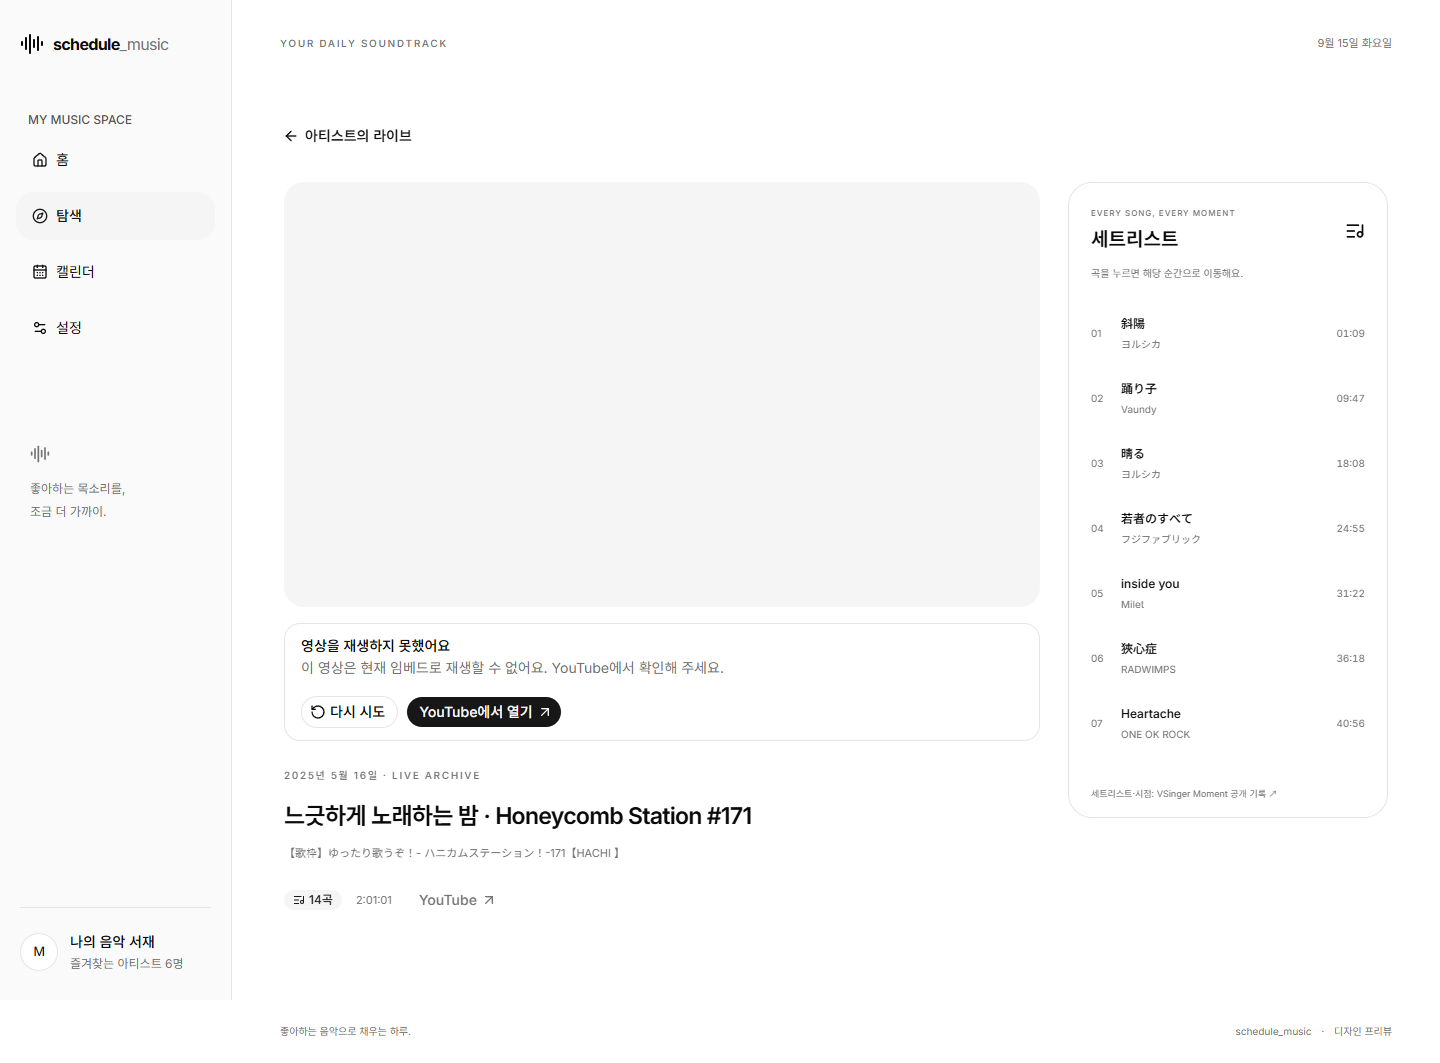
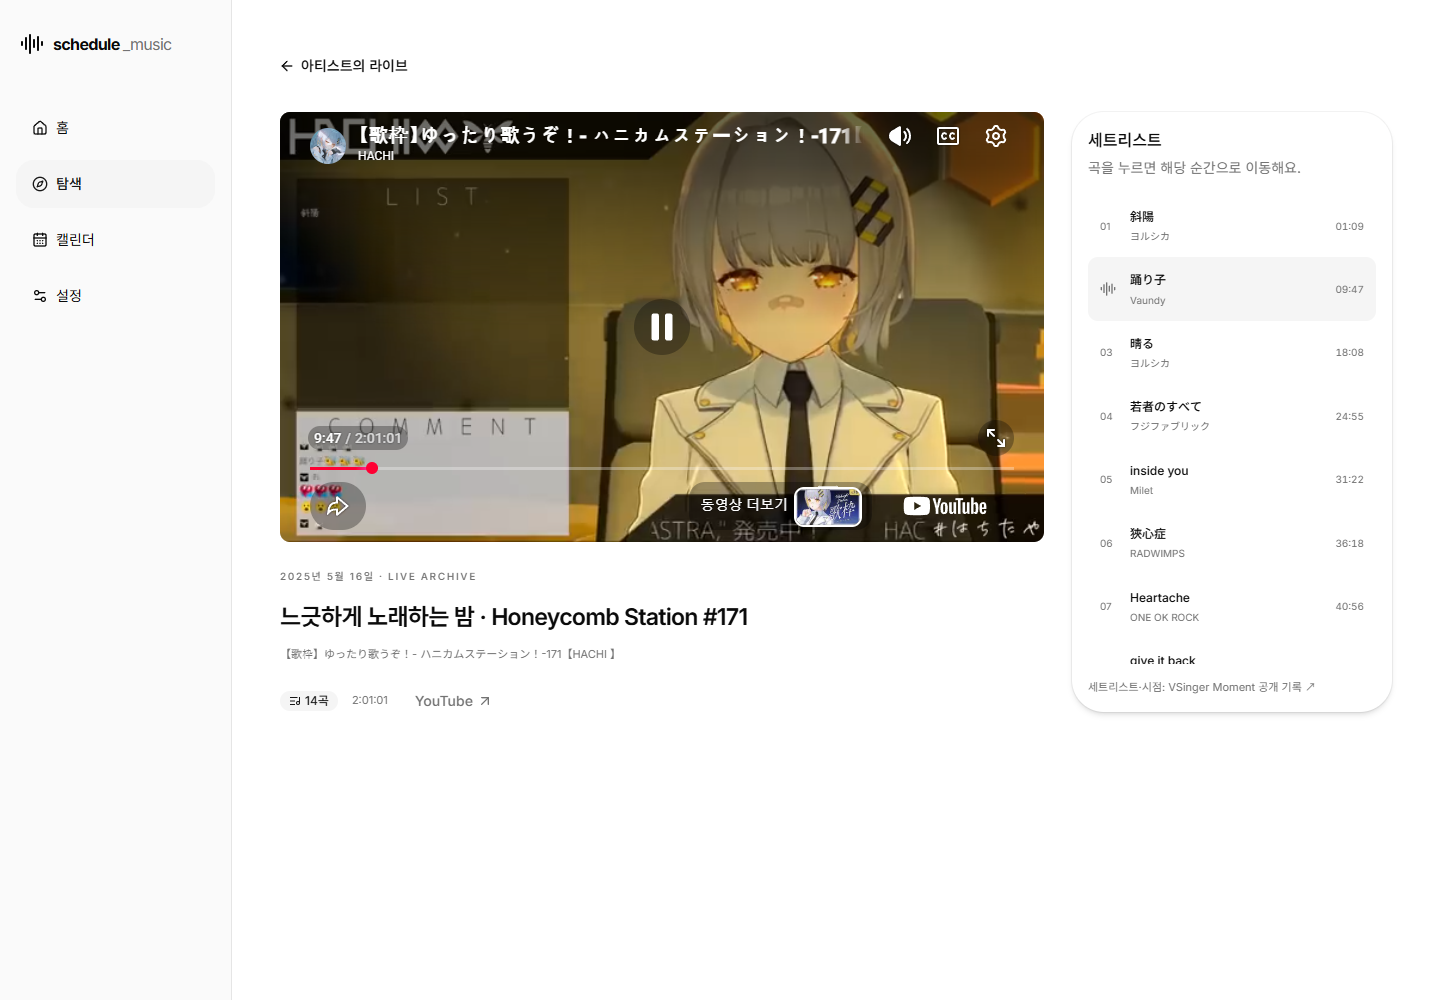
fix: 유튜브 재생문제, 썸네일 표시문제 수정

diff --git a/front-design-draft/tests/e2e/thumbnails.spec.ts b/front-design-draft/tests/e2e/thumbnails.spec.ts
@@ -1,0 +1,39 @@
+import { expect, test } from '@playwright/test'
+
+test('archive thumbnails keep 16:9 and recover from unavailable image sizes', async ({ page, context }) => {
+  // MSW forwards these requests from its worker, so intercept at context level.
+  await context.route('https://i.ytimg.com/vi/**', async (route) => {
+    const url = route.request().url()
+    if (
+      url.includes('jtzjXOVw7_Q') ||
+      (url.includes('rCLT8jX9Xhw') && url.includes('maxresdefault'))
+    ) {
+      await route.fulfill({ status: 404, body: '' })
+      return
+    }
+    const width = url.includes('maxresdefault') ? 120 : 320
+    await route.fulfill({
+      contentType: 'image/svg+xml',
+      body: `<svg xmlns="http://www.w3.org/2000/svg" width="${width}" height="180"><rect width="100%" height="100%" fill="gray"/></svg>`,
+    })
+  })
+  await page.goto('http://127.0.0.1:5174/artists/1?tab=lives')
+  await expect(page).toHaveURL('http://localhost:5174/artists/1?tab=lives')
+  await expect(page.locator('.live-card')).toHaveCount(3)
+  for (const id of [107, 108]) {
+    const card = page.locator(`.live-card[href="/lives/${id}"]`)
+    await card.scrollIntoViewIfNeeded()
+    await expect(card.locator('img')).toHaveAttribute('src', /mqdefault\.jpg$/)
+    await expect
+      .poll(() => card.locator('img').evaluate((image) => (image as HTMLImageElement).naturalWidth))
+      .toBe(320)
+    const box = await card.locator('.live-thumb').boundingBox()
+    expect(box!.width / box!.height).toBeCloseTo(16 / 9, 2)
+  }
+  const unavailable = page.locator('.live-card[href="/lives/101"]')
+  await unavailable.scrollIntoViewIfNeeded()
+  await expect(unavailable.locator('.live-thumb > img')).toHaveCount(0)
+  await expect(unavailable).toContainText('Honeycomb Station #171')
+  const box = await unavailable.locator('.live-thumb').boundingBox()
+  expect(box!.width / box!.height).toBeCloseTo(16 / 9, 2)
+})

diff --git a/front-design-draft/src/components/LiveCard.vue b/front-design-draft/src/components/LiveCard.vue
@@ -1,21 +1,43 @@
 <script setup lang="ts">
-import { ref } from 'vue'
+import { computed, ref, watch } from 'vue'
 import { Play, ListMusic } from '@lucide/vue'
 import type { Live } from '@/api/types'
 import { formatDate, formatTime } from '@/lib/dates'
 import { Badge } from '@/components/ui/badge'
-defineProps<{ live: Live }>()
-const imageFailed = ref(false)
+const props = defineProps<{ live: Live }>()
+const qualities = ['maxresdefault', 'mqdefault', 'hqdefault']
+const imageIndex = ref(0)
+const imageFailed = computed(() => imageIndex.value >= qualities.length)
+const thumbnail = computed(
+  () => `https://i.ytimg.com/vi/${props.live.video_id}/${qualities[imageIndex.value]}.jpg`,
+)
+watch(
+  () => props.live.video_id,
+  () => {
+    imageIndex.value = 0
+  },
+)
+function nextThumbnail() {
+  imageIndex.value++
+}
+function checkThumbnail(event: Event) {
+  // YouTube sometimes returns a 120px placeholder with HTTP 200 for a missing size.
+  if ((event.target as HTMLImageElement).naturalWidth <= 120) nextThumbnail()
+}
 </script>
 <template>
   <RouterLink :to="`/lives/${live.id}`" class="live-card">
     <div class="live-thumb">
       <img
         v-if="!imageFailed"
-        :src="`https://i.ytimg.com/vi/${live.video_id}/hqdefault.jpg`"
+        :src="thumbnail"
         :alt="live.title"
         loading="lazy"
-        @error="imageFailed = true"
+        width="1280"
+        height="720"
+        referrerpolicy="strict-origin-when-cross-origin"
+        @load="checkThumbnail"
+        @error="nextThumbnail"
       />
       <ListMusic v-else class="size-12" />
       <span class="live-play"><Play fill="currentColor" class="size-5" /></span>

diff --git a/front-design-draft/vite.config.ts b/front-design-draft/vite.config.ts
@@ -1,9 +1,38 @@
 import { fileURLToPath, URL } from 'node:url'
-import { defineConfig } from 'vite'
+import { defineConfig, type Plugin } from 'vite'
+import type { IncomingMessage, ServerResponse } from 'node:http'
 import vue from '@vitejs/plugin-vue'
 import tailwindcss from '@tailwindcss/vite'
 
+// YouTube rejects numeric loopback referrers in local embeds. Redirect the
+// document itself so the browser sends the real localhost origin, without
+// spoofing YouTube headers or proxying video traffic.
+function redirectLoopback(req: IncomingMessage, res: ServerResponse, next: () => void) {
+  const host = req.headers.host ?? ''
+  if (
+    req.method === 'GET' &&
+    /^127\.0\.0\.1(?::\d+)?$/.test(host) &&
+    req.headers.accept?.includes('text/html')
+  ) {
+    const destination = new URL(req.url ?? '/', `http://${host}`)
+    destination.hostname = 'localhost'
+    res.writeHead(307, { Location: destination.href, 'Cache-Control': 'no-store' })
+    res.end()
+    return
+  }
+  next()
+}
+const localPlayerOrigin: Plugin = {
+  name: 'local-player-origin',
+  configureServer(server) {
+    server.middlewares.use(redirectLoopback)
+  },
+  configurePreviewServer(server) {
+    server.middlewares.use(redirectLoopback)
+  },
+}
+
 export default defineConfig({
-  plugins: [vue(), tailwindcss()],
+  plugins: [localPlayerOrigin, vue(), tailwindcss()],
   resolve: { alias: { '@': fileURLToPath(new URL('./src', import.meta.url)) } },
 })

diff --git a/front-design-draft/src/pages/LivePage.vue b/front-design-draft/src/pages/LivePage.vue
@@ -60,6 +60,7 @@ async function setup() {
   try {
     const YT = await loadYouTube()
     if (current !== version || !playerHost.value || !data.value) return
+    const startSeconds = currentTime.value
     const target = document.createElement('div')
     playerHost.value.replaceChildren(target)
     readyTimeout = setTimeout(() => {
@@ -76,7 +77,7 @@ async function setup() {
         playsinline: 1,
         rel: 0,
         origin: window.location.origin,
-        start: currentTime.value,
+        start: startSeconds,
       },
       events: {
         onReady() {
@@ -84,7 +85,10 @@ async function setup() {
           clearTimeout(readyTimeout)
           ready.value = true
           playerError.value = ''
-          player?.seekTo(clampTime(route.query.t, data.value!.duration_seconds), true)
+          // The embed's start parameter already sets the initial position.
+          // An unconditional seek here can start playback before a user click.
+          const requestedTime = clampTime(route.query.t, data.value!.duration_seconds)
+          if (requestedTime !== startSeconds) player?.seekTo(requestedTime, true)
           interval = setInterval(() => {
             if (
               player &&

diff --git a/front-design-draft/src/mocks/fixtures.ts b/front-design-draft/src/mocks/fixtures.ts
@@ -39,6 +39,30 @@ const songs = [
 ] as const
 export const lives: Live[] = [
   {
+    id: 107,
+    artist_id: 1,
+    title: '【歌枠】復活！！！！！！！！！！- ハニカムステーション！-182【HACHI 】',
+    title_ko: '다시 돌아온 노래 시간 · Honeycomb Station #182',
+    video_id: 'rCLT8jX9Xhw',
+    broadcast_at: '2025-10-03T12:00:14Z',
+    duration_seconds: 5449,
+    performances: [],
+    source_url: 'https://www.youtube.com/watch?v=rCLT8jX9Xhw',
+    metadata_note: '공식 아카이브 · 세트리스트 미등록',
+  },
+  {
+    id: 108,
+    artist_id: 1,
+    title: '【歌枠】ゆったり歌枠！- ハニカムステーション！-181【HACHI 】',
+    title_ko: '여유롭게 노래하는 시간 · Honeycomb Station #181',
+    video_id: 'w-tVhpv07LA',
+    broadcast_at: '2025-09-12T12:00:57Z',
+    duration_seconds: 5378,
+    performances: [],
+    source_url: 'https://www.youtube.com/watch?v=w-tVhpv07LA',
+    metadata_note: '공식 아카이브 · 세트리스트 미등록',
+  },
+  {
     id: 106,
     artist_id: 2,
     title: '花譜 #132 3rd ONE-MAN LIVE「不可解参(想)」【Digest Trailer】',

diff --git a/front-design-draft/playwright.config.ts b/front-design-draft/playwright.config.ts
@@ -6,7 +6,7 @@ export default defineConfig({
   workers: 2,
   timeout: 30000,
   use: {
-    baseURL: 'http://127.0.0.1:5174',
+    baseURL: 'http://localhost:5174',
     launchOptions: {
       executablePath:
         process.env.CHROME_PATH || 'C:/Program Files/Google/Chrome/Application/chrome.exe',
@@ -28,7 +28,7 @@ export default defineConfig({
   ],
   webServer: {
     command: 'npm run dev',
-    url: 'http://127.0.0.1:5174',
+    url: 'http://localhost:5174',
     reuseExistingServer: !process.env.CI,
   },
 })

diff --git a/front-design-draft/index.html b/front-design-draft/index.html
@@ -3,6 +3,7 @@
   <head>
     <meta charset="UTF-8" />
     <meta name="viewport" content="width=device-width, initial-scale=1.0" />
+    <meta name="referrer" content="strict-origin-when-cross-origin" />
     <meta name="theme-color" content="#fafafa" />
     <meta name="description" content="좋아하는 목소리와 다시 만나세요. 아티스트, 라이브 세트리스트, 공연을 한곳에서." />
     <title>schedule_music — 좋아하는 목소리가 모이는 곳</title>

diff --git a/front-design-draft/tests/e2e/app.spec.ts b/front-design-draft/tests/e2e/app.spec.ts
@@ -39,6 +39,7 @@ test('search finds original artists and songs and seeks through the YouTube API'
     ;(window as any).YT = {
       Player: class {
         constructor(target: HTMLElement, options: any) {
+          state.time = options.playerVars.start
           const frame = document.createElement('iframe')
           frame.title = 'YouTube video player'
           target.replaceWith(frame)

diff --git a/front-design-draft/src/style.css b/front-design-draft/src/style.css
@@ -458,6 +458,8 @@ a:focus-visible {
   place-items: center;
 }
 .live-thumb > img {
+  position: absolute;
+  inset: 0;
   width: 100%;
   height: 100%;
   object-fit: cover;

diff --git a/front-design-draft/README.md b/front-design-draft/README.md
@@ -11,7 +11,7 @@ npm install
 npm run dev
 ```
 
-접속: [http://127.0.0.1:5174](http://127.0.0.1:5174)
+접속: [http://localhost:5174](http://localhost:5174)
 
 이 PC에서 nvm 프록시가 `No active Node configured`를 출력하면 현재 터미널에서만 다음 경로를 먼저 설정할 수 있습니다.
 
@@ -20,7 +20,7 @@ $env:PATH = 'C:\Users\Homin\AppData\Local\nvm\installs\v24.21.0;' + $env:PATH
 npm.cmd run dev
 ```
 
-실행에 백엔드 서버, DB, API 키는 필요하지 않습니다. `localhost` 또는 `127.0.0.1`에서 Service Worker를 허용하는 브라우저를 사용하세요. 다른 장치에서 HTTP IP 주소로 접근하면 MSW가 요구하는 보안 컨텍스트가 충족되지 않을 수 있습니다.
+실행에 백엔드 서버, DB, API 키는 필요하지 않습니다. `localhost`에서 Service Worker를 허용하는 브라우저를 사용하세요. YouTube가 숫자 루프백 주소의 임베드를 거부하는 문제를 확인해, 개발·프리뷰 서버는 `127.0.0.1`의 HTML 요청을 같은 경로의 `localhost`로 이동시킵니다. 기존 IP 주소에 저장한 즐겨찾기·테마와 localhost의 저장 공간은 별개입니다. 다른 장치에서 HTTP IP 주소로 접근하면 MSW가 요구하는 보안 컨텍스트가 충족되지 않을 수 있습니다.
 
 ## 구현 화면
 
@@ -37,11 +37,11 @@ PC는 좌측 사이드바, 태블릿은 아이콘 사이드바, 모바일은 하
 
 | 예시 | 주소 |
 | --- | --- |
-| 원곡 아티스트 검색 | [/search?q=요루시카](http://127.0.0.1:5174/search?q=요루시카) |
-| 같은 곡을 부른 HACHI·세토노 토토 비교 | [/search?q=각성](http://127.0.0.1:5174/search?q=각성) |
-| 곡의 시작 시점 | [/lives/101?t=1088](http://127.0.0.1:5174/lives/101?t=1088) |
-| 디스코그래피 | [/artists/2?tab=originals](http://127.0.0.1:5174/artists/2?tab=originals) |
-| 가사 팝업 직접 접근 | [/artists/1?tab=originals&lyrics=201](http://127.0.0.1:5174/artists/1?tab=originals&lyrics=201) |
+| 원곡 아티스트 검색 | [/search?q=요루시카](http://localhost:5174/search?q=요루시카) |
+| 같은 곡을 부른 HACHI·세토노 토토 비교 | [/search?q=각성](http://localhost:5174/search?q=각성) |
+| 곡의 시작 시점 | [/lives/101?t=1088](http://localhost:5174/lives/101?t=1088) |
+| 디스코그래피 | [/artists/2?tab=originals](http://localhost:5174/artists/2?tab=originals) |
+| 가사 팝업 직접 접근 | [/artists/1?tab=originals&lyrics=201](http://localhost:5174/artists/1?tab=originals&lyrics=201) |
 
 ## 데이터와 API
 
@@ -58,7 +58,7 @@ PC는 좌측 사이드바, 태블릿은 아이콘 사이드바, 모바일은 하
 | `/api/draft/search?q=...` | 아티스트와 세트리스트 검색 |
 | `/api/songs/:id/lyrics` | 직접 작성한 예시 가사 |
 
-아티스트 12팀, 라이브 영상 6개(그중 공식 다이제스트 1개), 세트리스트 25곡, 앨범·싱글 4개, 가상 공연 27개를 제공합니다. 콘텐츠가 없는 아티스트에서는 빈 상태를 확인할 수 있습니다. 공연 날짜는 방문 날짜에 맞춰 생성되어 지난 공연과 예정 공연이 함께 표시됩니다.
+아티스트 12팀, 라이브 영상 8개(그중 공식 다이제스트 1개), 세트리스트 25곡, 앨범·싱글 4개, 가상 공연 27개를 제공합니다. 콘텐츠가 없는 아티스트에서는 빈 상태를 확인할 수 있습니다. 공연 날짜는 방문 날짜에 맞춰 생성되어 지난 공연과 예정 공연이 함께 표시됩니다.
 
 실제 영상·아티스트 정보의 출처는 [콘텐츠 출처](docs/content-sources.md)에 기록했습니다. **공연과 가격은 가상이며, 가사는 직접 작성한 예시입니다.** 아티스트·앨범 이미지는 공식 사이트 자산을 로컬에 보관했습니다. 실제 영상 재생과 썸네일, Google Fonts에는 인터넷 연결이 필요합니다. 영상 자체는 다운로드하거나 재배포하지 않습니다.
 

diff --git a/front-design-draft/docs/qa.md b/front-design-draft/docs/qa.md
@@ -38,7 +38,15 @@
 
 실제 YouTube IFrame API를 사용합니다. 핵심 자동 테스트에서는 작은 API 테스트 더블을 통해 `/lives/101?t=1088`가 `seekTo(1088)`을 요청하고, `踊り子`를 선택하면 `seekTo(587)` 및 URL·세트리스트 선택이 일치하는지 검증했습니다.
 
-공개 YouTube 페이지의 메타데이터에서 HACHI, 세토노 토토, 花譜 표본의 `playabilityStatus: OK`, `playableInEmbed: true`를 확인했습니다. 그러나 이 실행 환경의 실제 Chrome 임베드에서는 YouTube 재생 오류가 표시되었고, 앱 내 브라우저에서도 iframe 준비가 완료되지 않았습니다. **실제 영상이 재생되며 올바른 음원이 들리는 것까지 검증한 것은 아닙니다.** 실패 시 오류 안내·재시도·선택 시점을 포함한 YouTube 원본 링크를 제공합니다. iframe 준비가 완료되지 않는 경우에도 무한 로딩 대신 15초 뒤 안내합니다.
+2026-09-16 재생 문제를 수정했습니다. 동일한 HACHI 영상을 숫자 루프백 주소 `127.0.0.1`에서 임베드하면 재생 불가였지만, `localhost`에서는 재생됨을 실제 Chrome에서 비교했습니다. Vite 개발·프리뷰 서버에 HTML 요청의 localhost 이동을 추가하고, 페이지에 `strict-origin-when-cross-origin` Referrer-Policy를 명시했습니다. YouTube 요청 헤더를 위조하거나 영상을 프록시하지 않습니다. 플레이어 준비 직후 무조건 `seekTo`를 호출하던 코드도 제거해 시작 시점은 embed `start` 파라미터를 사용하고 재생은 사용자의 버튼 클릭으로 시작합니다.
+
+`npm run check:video`는 실제 네트워크로 HACHI #182(107), #181(108), #171(101)의 재생 버튼을 클릭하고 재생 상태 `1`, 증가하는 재생 시간과 디코딩 프레임을 확인해 통과했습니다. #171은 1,088초에서 시작했고, 세트리스트 `踊り子` 선택 후 587.79초·재생 상태 `1`을 확인했습니다. 영상·음원의 내용을 청취해 모든 곡과 대조한 검수는 아닙니다. 이전 2026-09-15의 재생 실패 기록은 이번 Chrome 검증으로 갱신하며, 앱 내 브라우저 재생 성공을 주장하지는 않습니다.
+
+썸네일은 4:3 이미지의 intrinsic 크기가 grid 높이를 늘리던 문제를 고쳤습니다. 고정된 16:9 프레임 안에 이미지를 절대 배치하고, 고해상도 → 중간 해상도 → 기본 해상도 순으로 실패 시 전환합니다. HTTP 200인 120px 미제공 이미지도 감지합니다. 실제 세 썸네일은 모두 1280×720으로 표시됨을 확인했습니다.
+
+이번 수정 검증: 빌드·단위 테스트 8개 통과. 검색/시점 복원·주요 경로 E2E 4개 통과, 썸네일 404·120px placeholder·전체 실패와 16:9 유지 E2E 2개 통과. MSW가 전달하는 이미지 요청을 context 단위에서 모킹하도록 테스트를 수정한 뒤 썸네일 2개를 재실행했습니다. 실제 검증 스크립트는 실패 시 오류 종료하며 단순한 메타데이터 성공을 재생 성공으로 간주하지 않습니다. 캡처는 `screenshots/hachi-live-*.png`입니다.
+
+실패 시 오류 안내·재시도·선택 시점을 포함한 YouTube 원본 링크를 제공합니다. iframe 준비가 완료되지 않는 경우에도 무한 로딩 대신 15초 뒤 안내합니다.
 
 직접 확인: 개발 서버 실행 후 `/lives/101?t=1088`에서 YouTube 재생 버튼을 누르고, 다른 세트리스트 곡을 선택합니다. `npm run check:video`는 실제 외부 플레이어 진단용이며 외부 네트워크·YouTube 정책에 영향을 받습니다.
 

diff --git a/front-design-draft/docs/content-sources.md b/front-design-draft/docs/content-sources.md
@@ -15,6 +15,8 @@
 
 | 영상 | 영상 출처 | 세트리스트 |
 | --- | --- | --- |
+| HACHI Honeycomb Station #182 | [공식 YouTube](https://www.youtube.com/watch?v=rCLT8jX9Xhw) | 미등록 |
+| HACHI Honeycomb Station #181 | [공식 YouTube](https://www.youtube.com/watch?v=w-tVhpv07LA) | 미등록 |
 | HACHI Honeycomb Station #171 | [YouTube](https://www.youtube.com/watch?v=jtzjXOVw7_Q) | [VSinger Moment](https://vsinger-moment.jp/videos/f998b4d1-35fe-45e0-bf2e-b254b63c25ec), 14곡 |
 | 세토노 토토 YouTube 2,000일 | [YouTube](https://www.youtube.com/watch?v=s6BZdVRPH_o) | [VSinger Moment](https://vsinger-moment.jp/videos/2c07018d-305a-4a4b-8944-8c6187d94333), 7곡 |
 | 세토노 토토 노래 릴레이 | [YouTube](https://www.youtube.com/watch?v=Ycu3iehv_ow) | [VSinger Moment](https://vsinger-moment.jp/videos/6f5e6195-01eb-410b-a80e-d81b5c1e2dc7), 4곡 |
@@ -23,6 +25,8 @@
 | 花譜 불가해 참(상) 다이제스트 | [공식 YouTube](https://www.youtube.com/watch?v=508Xwh5xwvQ) | 다이제스트임을 제목에 표시; 미제공 |
 
 제목·길이·날짜는 YouTube 공개 메타데이터를 확인했습니다. 다이제스트의 날짜는 업로드 날짜입니다. 세트리스트는 공개 기록의 원곡명·원곡 아티스트·타임스탬프를 fixture로 옮겼으며 모든 영상 시점을 직접 청취 검수한 것은 아닙니다. 한국어 검색 별칭은 편의상 추가했습니다. 영상의 삭제·지역 제한·외부 재생 허용 상태는 바뀔 수 있습니다.
+
+2026-09-16 추가 확인: #182는 2025-10-03 12:00:14 UTC 시작·5,449초, #181은 2025-09-12 12:00:57 UTC 시작·5,378초로 공식 YouTube 공개 메타데이터를 확인했다. 두 영상 모두 `status: OK`, `playableInEmbed: true`였다. 공식 설명에 곡별 시점이 없어 세트리스트를 임의로 생성하지 않았다. HACHI 3개 영상의 `maxresdefault.jpg`는 실제 1280×720 이미지이며, 영상 재생 검증은 `qa.md`에 기록한다.
 
 ## 디스코그래피
 
